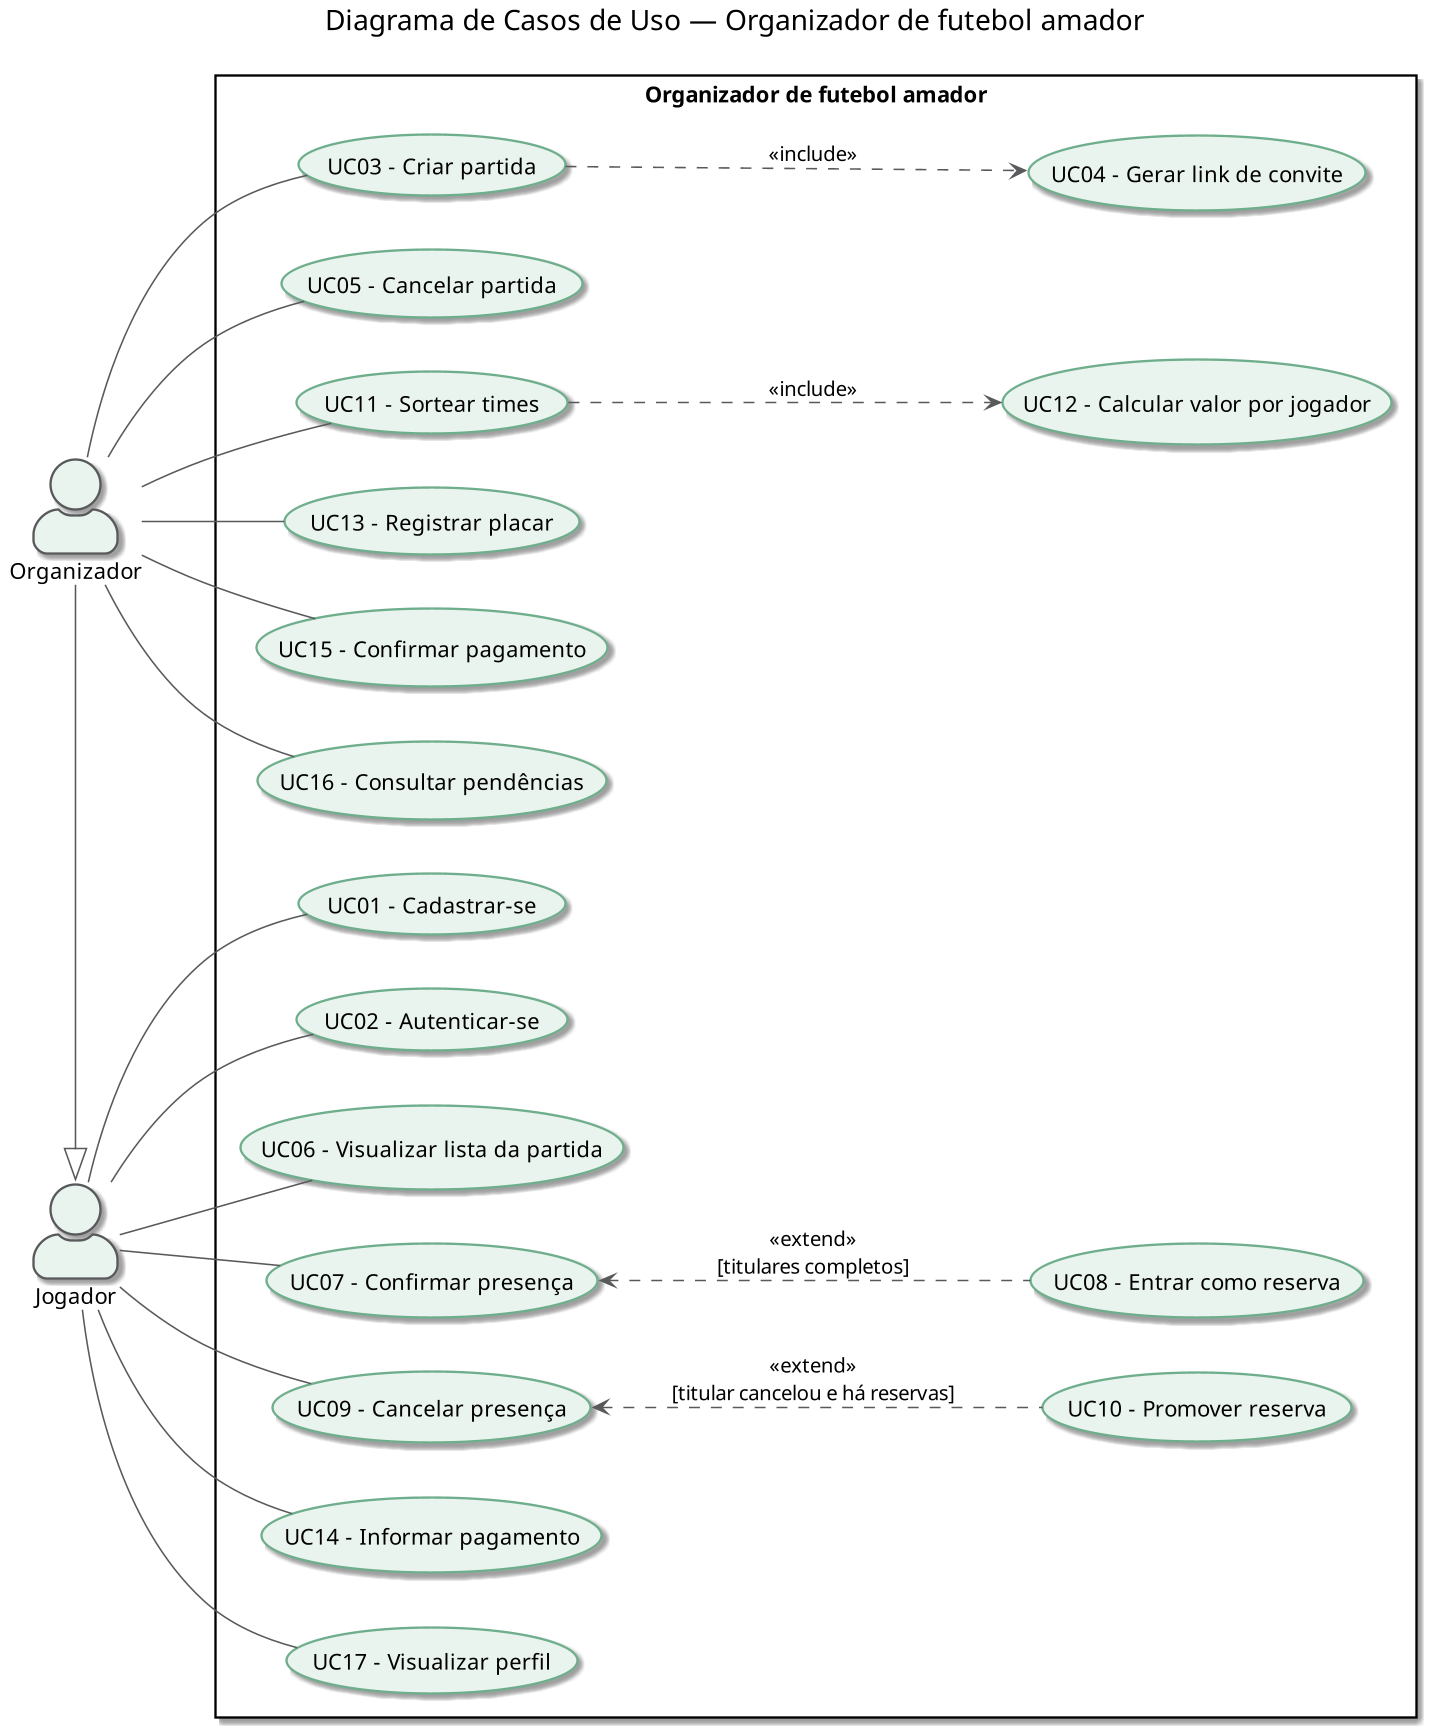
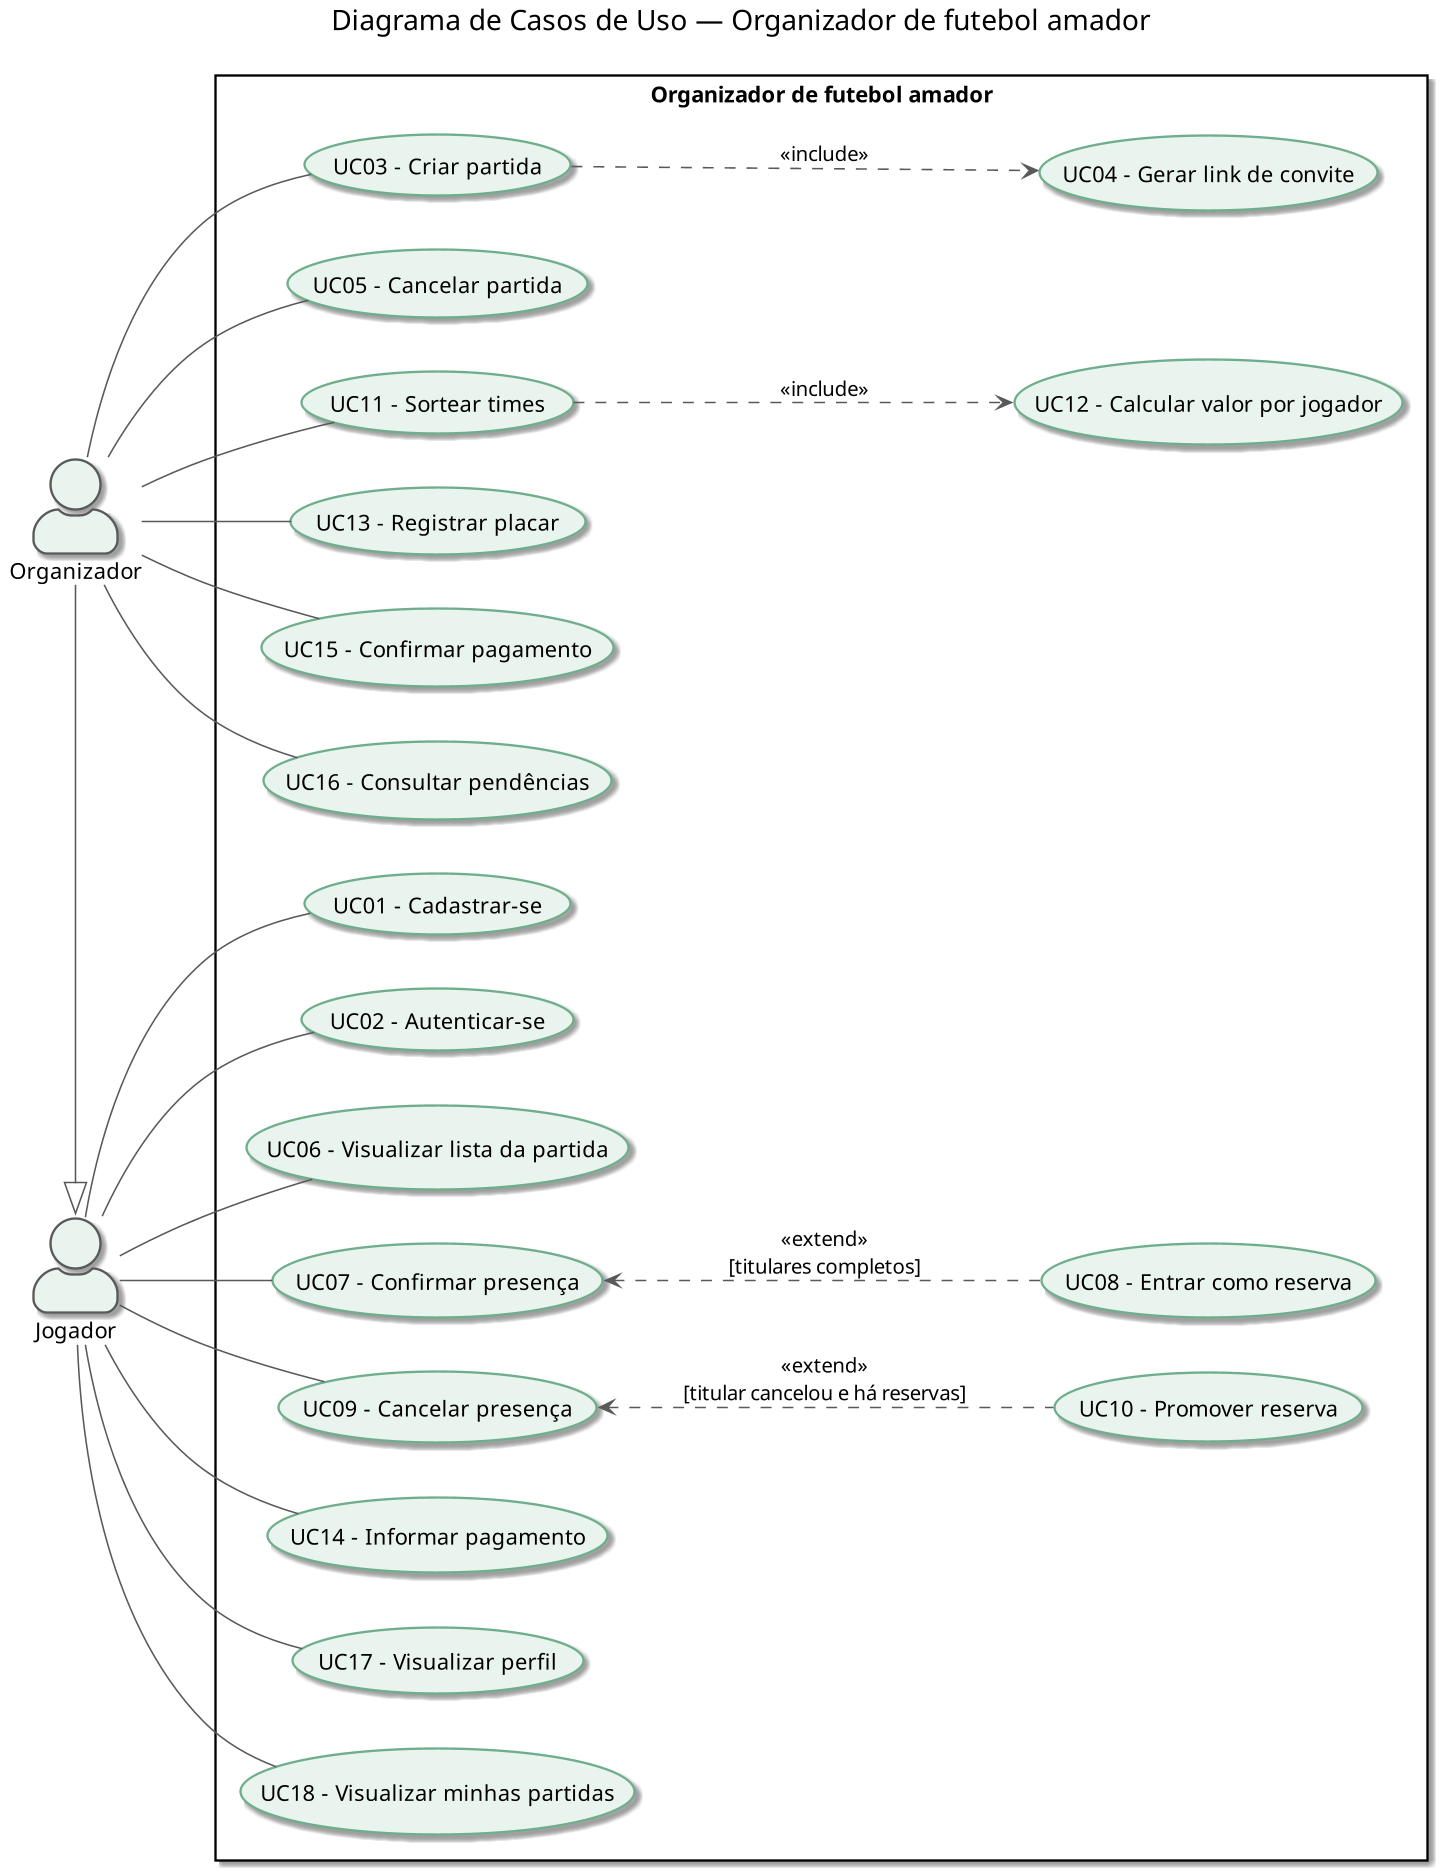
Adiciona protótipo (mapa do site e telas) e UC18 - Visualizar minhas partidas
- Mapa do site com as 12 telas, pontos de entrada e permissões
- 21 mockups das telas (T01-T12 e variações da T06), com descrição
  e casos de uso atendidos por cada uma
- Novo RF17/UC18 para a tela Início, refletido no diagrama de casos
  de uso, no diagrama de classes de domínio e no documento de requisitos

diff --git a/Documentação do Projeto.md b/Documentação do Projeto.md
@@ -40,7 +40,7 @@ O propósito é auxiliar e facilitar a manutenção e organização dessas parti
 
 **Contexto de uso:** o organizador cria a partida no sistema e compartilha o link de convite no grupo de WhatsApp; os jogadores acessam pelo celular para confirmar presença, acompanhar a lista e informar seus pagamentos.
 
-**Funcionalidades contempladas:** cadastro e autenticação de usuários; criação e cancelamento de partidas com link de convite; confirmação e cancelamento de presença, com fila de reservas e promoção automática; sorteio aleatório dos times; cálculo do valor por jogador; registro e controle de pagamentos; registro do placar; perfil do jogador com histórico e pendências.
+**Funcionalidades contempladas:** cadastro e autenticação de usuários; criação e cancelamento de partidas com link de convite; confirmação e cancelamento de presença, com fila de reservas e promoção automática; sorteio aleatório dos times; cálculo do valor por jogador; registro e controle de pagamentos; registro do placar; perfil do jogador com histórico e pendências; listagem das próximas partidas do usuário.
 
 **Fora do escopo:** pagamento online (Pix, cartão ou integração bancária); reserva de quadra junto ao dono do espaço; organização de campeonatos; notificações (e-mail, push ou WhatsApp); grupos fixos e mensalistas. Esses itens são candidatos a melhorias futuras.
 
@@ -64,6 +64,7 @@ O propósito é auxiliar e facilitar a manutenção e organização dessas parti
 | RF14 | O sistema deve exibir ao organizador a lista de jogadores com pagamento pendente em cada partida. | Alta | RF13 |
 | RF15 | O sistema deve permitir que o organizador registre o placar final da partida. | Média | RF11 |
 | RF16 | O sistema deve exibir o perfil do jogador com seu histórico de partidas disputadas e pendências financeiras. | Baixa | RF15 |
+| RF17 | O sistema deve exibir ao usuário as próximas partidas em que está inscrito ou que organiza, com data, horário, local, situação e vagas restantes. | Alta | RF03, RF06 |
 
 ## 3. Requisitos Não Funcionais
 
@@ -136,6 +137,7 @@ O propósito é auxiliar e facilitar a manutenção e organização dessas parti
 | UC15 - Confirmar pagamento | Organizador | RF13 |
 | UC16 - Consultar pendências | Organizador | RF14 |
 | UC17 - Visualizar perfil | Jogador | RF16 |
+| UC18 - Visualizar minhas partidas | Jogador | RF17 |
 
 ## 7. Documentação dos Casos de Uso
 
@@ -169,7 +171,7 @@ O propósito é auxiliar e facilitar a manutenção e organização dessas parti
 | **Pré-condições** | O usuário possui cadastro no sistema. |
 | **Pós-condições** | O usuário está autenticado e tem acesso às funcionalidades do seu perfil. |
 | **FLUXO PRINCIPAL** | |
-| **Fluxo principal** | 1. O usuário acessa o sistema, diretamente ou pelo link de convite de uma partida.<br>2. O sistema solicita e-mail e senha.<br>3. O usuário informa e-mail e senha.<br>4. O sistema valida as credenciais.<br>5. O sistema autentica o usuário e o direciona para a página inicial ou para a partida do link de convite. |
+| **Fluxo principal** | 1. O usuário acessa o sistema, diretamente ou pelo link de convite de uma partida.<br>2. O sistema solicita e-mail e senha.<br>3. O usuário informa e-mail e senha.<br>4. O sistema valida as credenciais.<br>5. O sistema autentica o usuário e o direciona para a lista de suas próximas partidas (UC18) ou, se veio pelo link de convite, para a partida do link. |
 | **FLUXOS ALTERNATIVOS** | |
 | **FA01 — Usuário sem cadastro** | No passo 2, o usuário escolhe "Criar conta" e é executado o UC01 - Cadastrar-se. |
 | **FLUXOS DE EXCEÇÃO** | |
@@ -444,6 +446,24 @@ O propósito é auxiliar e facilitar a manutenção e organização dessas parti
 | — | Não há. |
 | **Requisitos relacionados** | RF16 |
 
+### UC18 - Visualizar minhas partidas
+
+| **Caso de uso** | UC18 - Visualizar minhas partidas |
+|---|---|
+| **Ator principal** | Jogador (e Organizador, por herança) |
+| **Atores secundários** | — |
+| **Resumo** | O usuário consulta as próximas partidas em que está inscrito ou que organiza e acessa qualquer uma delas sem depender do link de convite. |
+| **Pré-condições** | O usuário está autenticado. |
+| **Pós-condições** | Nenhuma alteração no sistema. |
+| **FLUXO PRINCIPAL** | |
+| **Fluxo principal** | 1. O usuário acessa a opção "Início".<br>2. O sistema lista as partidas ainda não encerradas nem canceladas em que o usuário está inscrito ou que organiza, ordenadas pela data e horário.<br>3. Para cada partida, o sistema exibe data, horário, local, modalidade, situação e vagas restantes, identificando as partidas que o usuário organiza.<br>4. O usuário seleciona uma partida.<br>5. O sistema exibe a partida (UC06 - Visualizar lista da partida). |
+| **FLUXOS ALTERNATIVOS** | |
+| **FA01 — Nenhuma partida** | No passo 2, se o usuário não tiver partidas futuras, o sistema informa isso e exibe a opção "Nova partida" (UC03). |
+| **FA02 — Criar partida** | No passo 4, o usuário escolhe "Nova partida" e é executado o UC03 - Criar partida. |
+| **FLUXOS DE EXCEÇÃO** | |
+| — | Não há. |
+| **Requisitos relacionados** | RF17 |
+
 ---
 
 # Parte III — Modelagem
@@ -503,8 +523,8 @@ O modelo de domínio detalha o modelo conceitual com os tipos dos atributos, os 
 
 | Associação | Navegabilidade | Justificativa |
 |---|---|---|
-| Jogador *organiza* Partida | Bidirecional | A partida precisa saber quem é seu organizador para validar as permissões (RNF06); o organizador precisa listar suas partidas para consultar pendências (UC16). |
-| Jogador *realiza* Inscricao | Bidirecional | A lista da partida exibe o nome de cada inscrito (UC06); o perfil do jogador lista suas inscrições para montar o histórico (UC17). |
+| Jogador *organiza* Partida | Bidirecional | A partida precisa saber quem é seu organizador para validar as permissões (RNF06); o organizador precisa listar suas partidas para consultar pendências (UC16) e ver as próximas partidas (UC18). |
+| Jogador *realiza* Inscricao | Bidirecional | A lista da partida exibe o nome de cada inscrito (UC06); o jogador lista suas inscrições para montar o histórico (UC17) e as próximas partidas (UC18). |
 | Partida *possui* Inscricao | Bidirecional (composição) | A partida controla vagas e fila de reservas a partir das inscrições (UC07–UC10); o histórico do jogador precisa chegar à partida a partir da inscrição (UC17). |
 | Partida *é dividida em* Time | Partida → Time (composição) | Os times são acessados sempre a partir da partida (UC06, UC11, UC13); o time não precisa conhecer a partida. |
 | Time *compõe* Inscricao | Bidirecional | O time lista seus jogadores (UC06); a inscrição precisa saber seu time para o reserva promovido assumir a vaga no mesmo time (UC10, FA01) e para o histórico (UC17). |
@@ -517,6 +537,7 @@ O modelo de domínio detalha o modelo conceitual com os tipos dos atributos, os 
 | Jogador | `autenticar()` | UC02 |
 | Jogador | `criarPartida()` | UC03 |
 | Jogador | `consultarHistorico()` | UC17 |
+| Jogador | `consultarProximasPartidas()` | UC18 |
 | Jogador | `consultarPendencias()` | UC14, UC17 |
 | Partida | `gerarLinkConvite()` | UC04 |
 | Partida | `inscrever()` | UC07, UC08 |
@@ -593,7 +614,67 @@ O cadastro (UC01) não aparece como método de Jogador porque é a própria cria
 
 ## 11. Mapa do Site
 
+![Mapa do Site](diagramas/mapa_do_site.png)
+
+> Fonte do diagrama (PlantUML): [mapa_do_site.puml](diagramas/mapa_do_site.puml)
+
+O mapa do site apresenta as 12 telas do sistema e a navegação entre elas. Cada tela indica os casos de uso que atende, de forma que todos os casos de uso do diagrama possuem ao menos uma tela correspondente. Os casos de uso sem ator direto aparecem como estados de outras telas: UC04 na tela T05, UC08 e UC10 na tela T06 e UC12 na tela T07.
+
+**Pontos de entrada**
+
+- **Link de convite** (compartilhado no WhatsApp): é a entrada principal dos jogadores (RNF01). Usuários autenticados vão direto para o detalhe da partida (T06); os demais passam pelo login (T01) e, em seguida, são levados à partida do link (UC02).
+- **Acesso direto ao sistema:** após o login, o usuário chega ao Início (T03), com suas próximas partidas (UC18).
+
+**Navegação e permissões**
+
+- As telas em laranja são exclusivas do organizador da partida (RNF06): Nova partida, Partida criada, Registrar placar, Pagamentos da partida e Pendências. Nas telas T06 e T07, os botões de organizador (cancelar partida, sortear e sortear de novo) só aparecem para ele.
+- O menu fixo das telas autenticadas tem Início, Pendências e Perfil; o item Pendências só aparece para quem organiza ao menos uma partida.
+- Confirmações de ações (cancelar partida, cancelar presença e sortear times) são diálogos dentro da própria tela, e não telas separadas.
+
 ## 12. Telas
+
+O protótipo foi feito para celular (RNF01), já que o acesso principal acontece pelo link compartilhado no WhatsApp. As telas seguem o mapa do site (seção 11). A tela T06 tem variações que mostram a mesma tela em situações diferentes da partida e na visão de cada tipo de usuário. Os diálogos de confirmação aparecem junto da tela em que são abertos.
+
+Dados de exemplo usados em todas as telas: partida de society na quinta-feira, 10/12, às 20h, na Arena Society Centro, com 14 titulares, 2 reservas e quadra de R$ 280,00, o que dá R$ 280,00 ÷ 16 = R$ 17,50 por jogador (RN03).
+
+### Acesso
+
+| Tela | Descrição | Casos de uso | Acessada por |
+|---|---|---|---|
+| <img src="prototipo/T01_login.png" width="220"> | **T01 · Login.** E-mail e senha, além do link "Criar conta". Quem chega pelo link de convite sem estar autenticado passa por aqui e depois é levado à partida. | UC02 | Link de convite; T02 |
+| <img src="prototipo/T02_cadastro.png" width="220"> | **T02 · Cadastro.** Nome, telefone, e-mail, senha, posição preferida (linha ou goleiro) e aceite do uso dos dados conforme a LGPD (RS01). | UC01 | T01 |
+| <img src="prototipo/T03_inicio.png" width="220"> | **T03 · Início (Minhas partidas).** Próximas partidas em que o usuário está inscrito ou que organiza, com data, local, modalidade, situação e vagas restantes. As partidas que ele organiza são identificadas. Botão "Nova partida". | UC18 | T01; menu |
+
+### Criação da partida (organizador)
+
+| Tela | Descrição | Casos de uso | Acessada por |
+|---|---|---|---|
+| <img src="prototipo/T04_nova_partida.png" width="220"> | **T04 · Nova partida.** Data, horário, local, modalidade, vagas de titulares e de reservas e valor total da quadra, com a explicação de como o valor por jogador é calculado. | UC03 | T03 |
+| <img src="prototipo/T05_partida_criada.png" width="220"> | **T05 · Partida criada.** Resumo da partida, link de convite gerado e botão "Compartilhar no WhatsApp". | UC04 | T04 |
+
+### Detalhe da partida (T06) e suas variações
+
+| Tela | Descrição | Casos de uso | Acessada por |
+|---|---|---|---|
+| <img src="prototipo/T06a_detalhe_nao_inscrito.png" width="220"> | **T06a · Jogador ainda não inscrito.** Dados da partida, vagas restantes, titulares e fila de reservas. O botão "Confirmar presença" fica fixo no rodapé e inscreve o jogador com um toque (RNF02). | UC06, UC07 | Link de convite; T03 |
+| <img src="prototipo/T06b_detalhe_reserva.png" width="220"> <img src="prototipo/T06b_modal_cancelar_presenca.png" width="220"> | **T06b · Jogador inscrito como reserva, partida Lotada.** Mostra a posição na fila ("Você é o 2º reserva") e explica que o primeiro reserva vira titular automaticamente quando um titular cancela. Ao lado, o diálogo de "Cancelar presença". | UC08, UC09, UC10 | T03; T06a |
+| <img src="prototipo/T06c_detalhe_lotada.png" width="220"> | **T06c · Partida lotada.** Para quem não está inscrito, o sistema informa que titulares e reservas estão completos e não oferece a opção de confirmar presença (RN01). | UC06, UC07 (FE01) | Link de convite |
+| <img src="prototipo/T06d_detalhe_organizador.png" width="220"> <img src="prototipo/T06d_modal_sortear_times.png" width="220"> <img src="prototipo/T06d_modal_cancelar_partida.png" width="220"> | **T06d · Visão do organizador antes do sorteio.** Bloco "Ações do organizador" com "Sortear times" e "Cancelar partida" (RNF06). O diálogo de sorteio mostra o cálculo do valor por jogador e avisa que as inscrições serão encerradas (RN05). O diálogo de cancelamento avisa que os pagamentos não confirmados serão cancelados (RN08). | UC05, UC11, UC12 | T03 |
+| <img src="prototipo/T06e_detalhe_organizador_times_sorteados.png" width="220"> | **T06e · Visão do organizador após o sorteio.** Inscrições encerradas, com "Ver times sorteados", "Pagamentos da partida", "Registrar placar" (desabilitado até o horário da partida) e "Cancelar partida". | UC05, UC06, UC13, UC15 | T03 |
+| <img src="prototipo/T06f_detalhe_reserva_times_sorteados.png" width="220"> | **T06f · Visão do jogador após o sorteio.** Card com o valor da sua parte e o botão "Informar pagamento", além de "Ver times sorteados". "Cancelar presença" avisa que, após o sorteio, quem cancela continua devendo sua parte (RN04). | UC06, UC09, UC14 | T03 |
+
+### Jogo e pagamentos
+
+| Tela | Descrição | Casos de uso | Acessada por |
+|---|---|---|---|
+| <img src="prototipo/T07_times_sorteados.png" width="220"> <img src="prototipo/T07_modal_sortear_de_novo.png" width="220"> | **T07 · Times sorteados.** Time A e Time B com 7 jogadores cada e um goleiro em cada time (RN06, RN07), reservas sem time fixo e valor por jogador. O organizador pode sortear de novo; o diálogo informa que o valor não muda (RN03). | UC11, UC12 | T06d, T06e, T06f |
+| <img src="prototipo/T08_registrar_placar.png" width="220"> | **T08 · Registrar placar (organizador).** Gols do Time A e do Time B. Ao salvar, a partida é encerrada. | UC13 | T06e |
+| <img src="prototipo/T09_informar_pagamento.png" width="220"> | **T09 · Informar pagamento.** Valor a pagar, situação do pagamento e envio do comprovante (JPG, PNG ou PDF, até 5 MB — RNF07). Depois do envio, o pagamento fica *Informado* até a confirmação do organizador. | UC14 | T06f; T12 |
+| <img src="prototipo/T10_pagamentos_da_partida.png" width="220"> | **T10 · Pagamentos da partida (organizador).** Total a receber e confirmado, e a lista de inscritos agrupada por situação. Pagamentos *Informados* podem ser confirmados ou recusados depois de ver o comprovante; os *Pendentes* podem ser registrados manualmente. | UC15 | T06e; T11 |
+| <img src="prototipo/T11_pendencias.png" width="220"> | **T11 · Pendências (organizador).** Total a receber de todas as partidas que o usuário organiza e, para cada partida, quem ainda deve e quanto. | UC16 | Menu (só para quem organiza partidas) |
+| <img src="prototipo/T12_perfil.png" width="220"> | **T12 · Perfil.** Dados do jogador, pagamentos pendentes com atalho para informar o pagamento e histórico de partidas encerradas, com local, time (ou "reserva") e placar. | UC17 | Menu |
+
+**Cobertura dos casos de uso:** todos os 18 casos de uso têm ao menos uma tela. Os casos de uso sem ator direto aparecem como parte de outras telas: UC04 (link de convite) na T05, UC08 (entrar como reserva) e UC10 (promover reserva) na T06b, e UC12 (calcular valor) no diálogo de sorteio da T06d e na T07.
 
 ---
 
